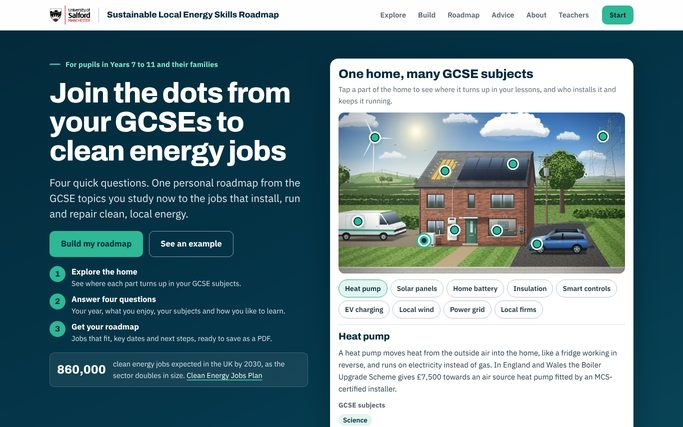
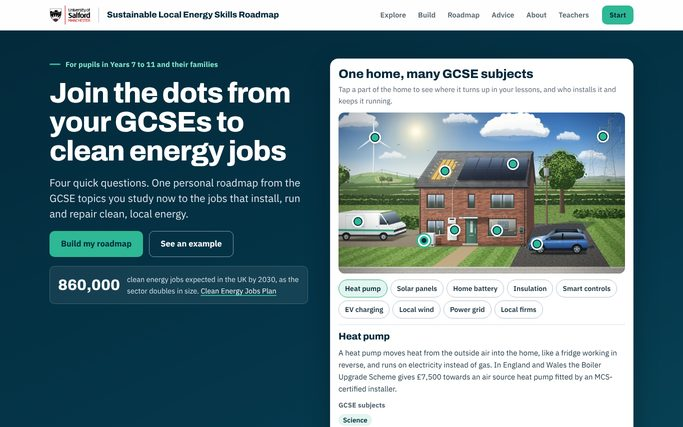
Preview: option D uses the How it works row across the welcome band, not live
Claude-Session: https://claude.ai/code/session_015wPSv316h51iKfRQ7BC2Z3

Changed region(s): [[0.0615, 0.6089, 0.4612, 0.9133], [0.5227, 0.3349, 0.5534, 0.3653]]

diff --git a/sustainable-skills/option-d.html b/sustainable-skills/option-d.html
@@ -571,14 +571,15 @@ dialog.drawer::backdrop{background:rgba(1,20,30,.5)}
   @media (prefers-reduced-motion: no-preference){dialog.drawer[open]{animation-name:sheet-in}@keyframes sheet-in{from{transform:translateY(40px);opacity:0}to{transform:none;opacity:1}}}
 }
 
-/* ---------- Option D: At a glance, with How it works ---------- */
-.how{list-style:none;margin:0;padding:0;display:grid;gap:10px;max-width:34em}
-.how li{display:flex;align-items:flex-start;gap:12px}
-.how-n{flex:none;display:grid;place-items:center;width:32px;height:32px;border-radius:50%;background:var(--accent);color:#032A3B;font-family:var(--display);font-weight:800;font-size:16px;line-height:1}
-.how-t{display:grid;gap:1px;font-size:14.5px;line-height:1.45;color:#DCE5EB}
-.how-t b{font-size:16px;color:#FFFFFF}
-.hero-copy .fact{padding:10px 14px}
-.hero-copy .fact dt{font-size:1.5rem}
+/* ---------- Option D: At a glance, with the How it works row ---------- */
+.how-wrap{padding-top:28px}
+.how{list-style:none;margin:0;padding:0;display:grid;gap:12px}
+.how li{display:flex;align-items:flex-start;gap:14px;padding:16px 18px;border-radius:var(--r-lg);background:rgba(255,255,255,.07);border:1px solid rgba(255,255,255,.18)}
+.how-n{flex:none;display:grid;place-items:center;width:38px;height:38px;border-radius:50%;background:var(--accent);color:#032A3B;font-family:var(--display);font-weight:800;font-size:18px;line-height:1}
+.how-t{display:grid;gap:3px;font-size:15px;line-height:1.45;color:#DCE5EB}
+.how-t b{font-size:16.5px;color:#FFFFFF}
+@media (min-width:760px){.how{grid-template-columns:repeat(3,minmax(0,1fr))}}
+@media (min-width:980px){.how-wrap{padding-top:36px}}
 
 /* Printing the page (Ctrl+P) gives the roadmap on white paper. Download PDF gives the designed version. */
 @media print{
@@ -653,11 +654,6 @@ dialog.drawer::backdrop{background:rgba(1,20,30,.5)}
         <button class="btn btn-accent btn-lg" type="button" data-go="answers">Build my roadmap</button>
         <button class="btn btn-ghost btn-lg" type="button" data-go="example">See an example</button>
       </div>
-      <ol class="how" aria-label="How it works">
-        <li><span class="how-n" aria-hidden="true">1</span><span class="how-t"><b>Explore the home</b>See where each part turns up in your GCSE subjects.</span></li>
-        <li><span class="how-n" aria-hidden="true">2</span><span class="how-t"><b>Answer four questions</b>Your year, what you enjoy, your subjects and how you like to learn.</span></li>
-        <li><span class="how-n" aria-hidden="true">3</span><span class="how-t"><b>Get your roadmap</b>Jobs that fit, key dates and next steps, ready to save as a PDF.</span></li>
-      </ol>
       <dl class="facts">
         <div class="fact"><dt>860,000</dt><dd>clean energy jobs expected in the UK by 2030, as the sector doubles in size. <a href="https://www.gov.uk/government/news/clean-energy-jobs-boom-to-bring-thousands-of-new-jobs" target="_blank" rel="noopener">Clean Energy Jobs Plan</a></dd></div>
       </dl>
@@ -682,6 +678,13 @@ dialog.drawer::backdrop{background:rgba(1,20,30,.5)}
       <div class="ex-chips" id="ex-chips" role="group" aria-label="Parts of the home"></div>
       <div class="ex-panel" id="ex-panel" aria-live="polite"></div>
     </section>
+  </div>
+  <div class="wrap how-wrap">
+      <ol class="how" aria-label="How it works">
+      <li><span class="how-n" aria-hidden="true">1</span><span class="how-t"><b>Explore the home</b>See where each part turns up in your GCSE subjects.</span></li>
+      <li><span class="how-n" aria-hidden="true">2</span><span class="how-t"><b>Answer four questions</b>Your year, what you enjoy, your subjects and how you like to learn.</span></li>
+      <li><span class="how-n" aria-hidden="true">3</span><span class="how-t"><b>Get your roadmap</b>Jobs that fit, key dates and next steps, ready to save as a PDF.</span></li>
+    </ol>
   </div>
 </section>
 

diff --git a/sustainable-skills/options.html b/sustainable-skills/options.html
@@ -66,12 +66,12 @@
       <a class="btn" href="option-c.html">Open option C</a>
     </li>
     <li class="opt">
-      <img src="pv/option-d-rm.jpg" width="683" height="427" alt="Option D: the bold welcome band with a How it works list in three steps under the headline">
+      <img src="pv/option-d-rm.jpg" width="683" height="427" alt="Option D: the bold welcome band with a How it works row of three steps">
       <h2>D. At a glance, with How it works (recommended)</h2>
-      <p>Option C, with B&#8217;s three steps added under the headline, so families see straight away what the tool does.</p>
+      <p>Option C, with B&#8217;s &#8220;How it works&#8221; row of three steps across the welcome band, so families see straight away what the tool does.</p>
       <ul>
         <li>Everything in option C: the bold welcome, the roadmap as cards, and the detail panel.</li>
-        <li>&#8220;How it works&#8221; in three short steps beside the home picture.</li>
+        <li>&#8220;How it works&#8221; as a row of three steps under the headline and the home picture.</li>
       </ul>
       <p class="len">About 4,900 pixels on a laptop.</p>
       <a class="btn" href="option-d.html">Open option D</a>
